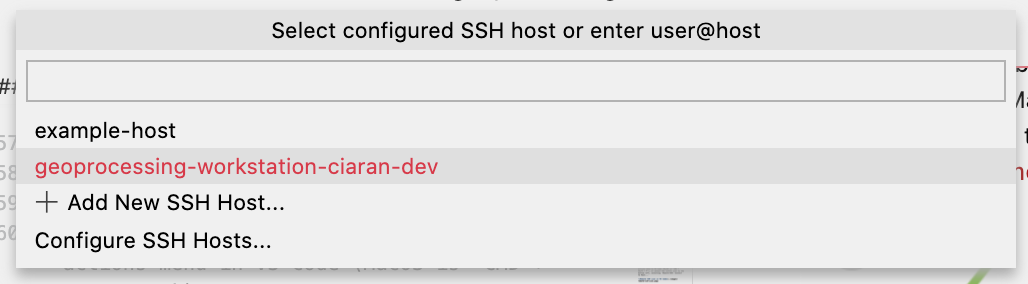
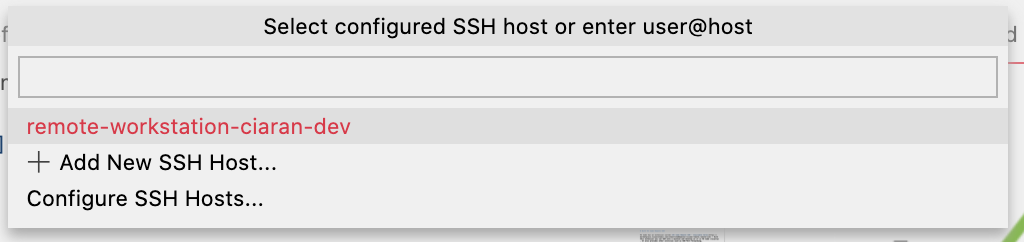
Tidy up makefile and SSH config entry, update images and add logging to fargate

diff --git a/remote_workstation/remote_workstation_stack.py b/remote_workstation/remote_workstation_stack.py
@@ -2,6 +2,7 @@ import os
 
 from aws_cdk import aws_ec2 as ec2
 from aws_cdk import aws_ecs as ecs
+from aws_cdk import aws_logs as logs
 from aws_cdk import core
 
 
@@ -31,9 +32,15 @@ class RemoteWorkstationStack(core.Stack):
 
         container = ecs.ContainerImage.from_asset("docker")
 
+        log_driver = ecs.AwsLogDriver(
+            stream_prefix=f"remote-workstation/{identifier}",
+            log_retention=logs.RetentionDays.ONE_WEEK
+        )
+
         task_definition.add_container(
             f"container-definition-{identifier}",
             image=container,
+            logging=log_driver,
             environment={"SSH_PUBLIC_KEY": os.environ["SSH_PUBLIC_KEY"]},
         )
 

diff --git a/utils/generate_ssh_config.py b/utils/generate_ssh_config.py
@@ -46,13 +46,11 @@ def generate_ssh_config_entry(instance_ip: str) -> str:
     :param instance_ip: str representing the IP address of the instance
     :returns: str The generated SSH config entry
     """
-    return f"""
-# Generated by the remote-workstation project
+    return f"""# Generated by the remote-workstation project
 Host remote-workstation-{IDENTIFIER}
   HostName {instance_ip}
   User root
-  IdentityFile {os.environ["SSH_PRIVATE_KEY_LOCATION"]}
-"""
+  IdentityFile {os.environ["SSH_PRIVATE_KEY_LOCATION"]}"""
 
 
 def find_previous_config_entry_and_replace_or_write_entry_if_not_present(

diff --git a/README.md b/README.md
@@ -71,7 +71,7 @@ With the plugin enabled, either open the actions menu in VS Code (MacOS is `CMD 
 
 ## 2. Connect to host
 
-You should now see a prompy with the contents of your SSH Config file (listing the hosts), you should see `remote-workstation-<IDENTIFIER>` - select that.
+You should now see a prompt with the contents of your SSH Config file (listing the hosts), you should see `remote-workstation-<IDENTIFIER>` - select that.
 
 ![Remote SSH hosts](./images/remote-ssh-hosts.png)
 
